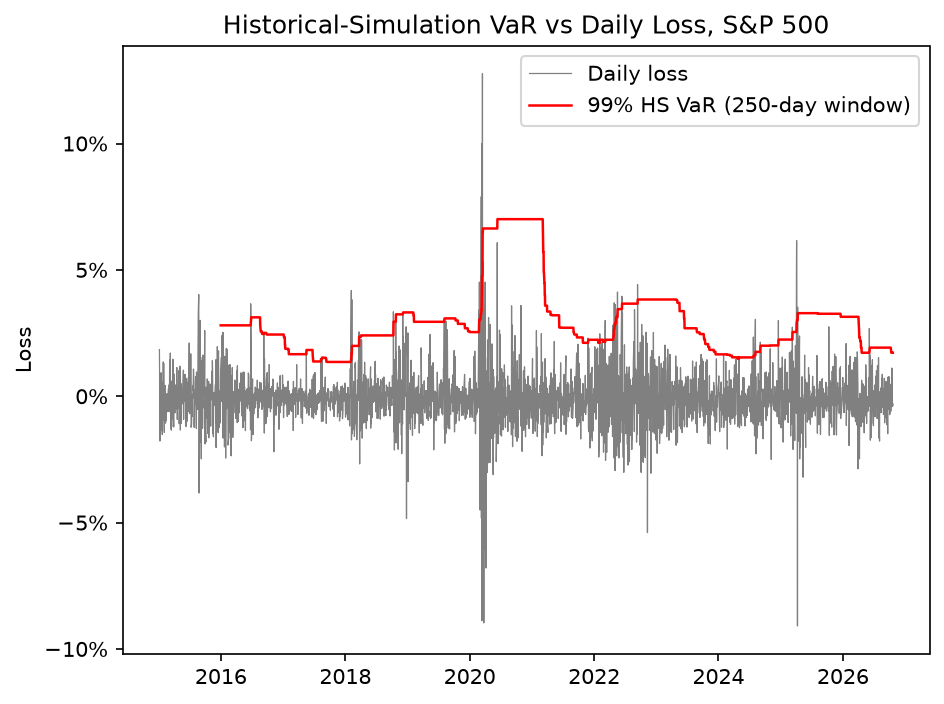
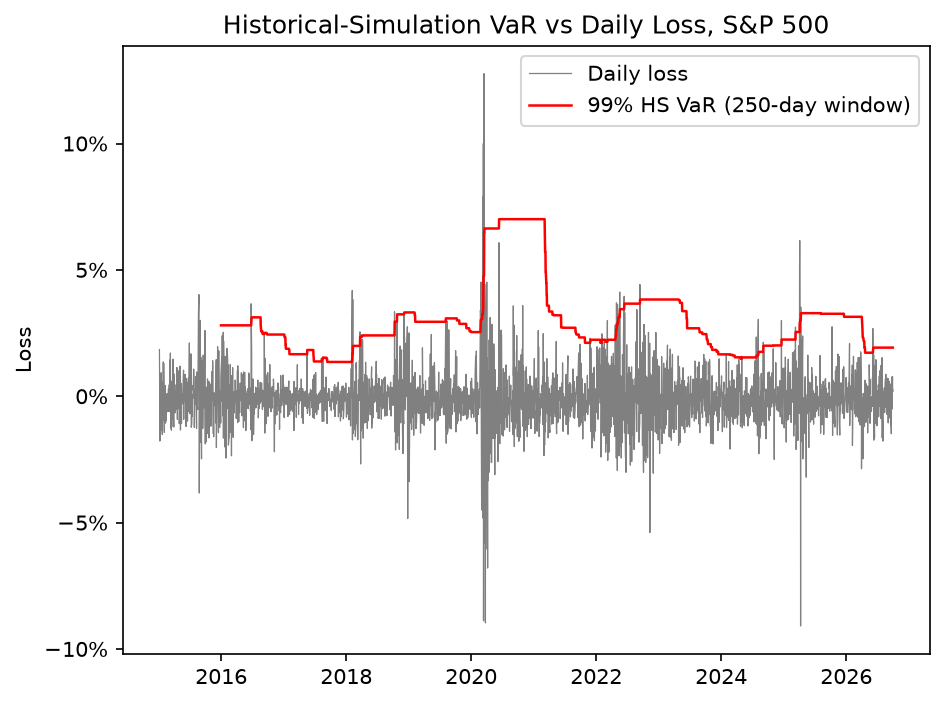
Added Christoffersen Independence and Conditional Coverage tests, together with an end date in the clean_download function to preserve results

diff --git a/src/backtests.py b/src/backtests.py
@@ -1,18 +1,18 @@
 import pandas as pd
 import numpy as np
 from scipy.stats import chi2
-
+from scipy.special import xlogy
 
 
 def kupiec_test(hit: pd.Series, p: float = 0.01) -> dict:
-    """Computes the Kupiec likelihood ratio test. Takes a boolean hit series as argument. """
+    """Computes the Kupiec likelihood ratio test. Takes a boolean hit series as argument."""
 
     n = hit.size
     x = hit.sum()
     pi_hat = x / n
 
-    l1 = (n - x) * np.log(1 - p) + x * np.log(p) if x > 0 else 0
-    l2 = (n - x) * np.log(1 - pi_hat) + x * np.log(pi_hat) if x > 0 else 0 # Handle edge cases
+    l1 = xlogy(n - x, 1 - p) + xlogy(x, p)
+    l2 = xlogy(n - x, 1 - pi_hat) + xlogy(x, pi_hat)
 
     LR = -2 * (l1 - l2)
     p_value = chi2.sf(LR, df=1)
@@ -22,3 +22,54 @@ def kupiec_test(hit: pd.Series, p: float = 0.01) -> dict:
             'rate': float(hit.mean()),
             'LR': float(LR),
             'p_value': float(p_value)}
+
+
+def christoffersen_independence(hit: pd.Series) -> dict:
+    """Computes the Christoffersen Independence test. Takes a boolean hit series as argument."""
+
+    h = hit.astype(int).to_numpy()
+    prev = h[:-1]
+    curr = h[1:]
+    
+    # Transitions
+    n00 = ((prev == 0) & (curr == 0)).sum()
+    n01 = ((prev == 0) & (curr == 1)).sum()
+    n10 = ((prev == 1) & (curr == 0)).sum()
+    n11 = ((prev == 1) & (curr == 1)).sum()
+
+    pi01 = n01 / (n00 + n01)
+    pi11 = n11 / (n10 + n11)
+    pi = (n01 + n11) / (n01 + n10 + n11 + n00)
+
+    log_L_null = xlogy(n00 + n10, 1 - pi) + xlogy(n01 + n11, pi)
+    log_L_alternative  = xlogy(n00, 1 - pi01) + xlogy(n01, pi01) + xlogy(n10, 1 - pi11) + xlogy(n11, pi11)
+
+    LR_ind = -2 * (log_L_null -  log_L_alternative)
+    p_value = chi2.sf(LR_ind, df=1)
+
+    return {'n00' : int(n00),
+            'n01' : int(n01),
+            'n10' : int(n10),
+            'n11' : int(n11),
+            'pi01' : float(pi01),
+            'pi11' : float(pi11),
+            'LR': float(LR_ind),
+            'p_value' : float(p_value)}
+
+
+def conditional_coverage(hit: pd.Series, p: float = 0.01) -> dict:
+    """Returns the results of the Christoffersen Conditional Coverage test as a dictionary. Takes a boolean hit series as argument."""
+
+    LR_unconditional = kupiec_test(hit, p)['LR']
+    LR_independence = christoffersen_independence(hit)['LR']
+
+    LR_conditional = LR_independence + LR_unconditional
+    p_value = chi2.sf(LR_conditional, df = 2)
+
+    return {'LR_unconditional' : LR_unconditional,
+            'LR_independence' : LR_independence,
+            'LR_conditional' : LR_conditional,
+            'p_value' : float(p_value)}
+
+
+

diff --git a/src/data.py b/src/data.py
@@ -11,9 +11,9 @@ warnings.filterwarnings('ignore')
 DATA_DIR = Path(__file__).resolve().parents[1] / "data"
 
 
-def clean_download(ticker: str, start: str) -> pd.DataFrame:
-    """Download daily OHLC prices for `ticker` from `start` and save them to data/<name>.csv."""
-    data = yf.download(tickers=ticker, start=start, progress=False)
+def clean_download(ticker: str, start: str, end: str) -> pd.DataFrame:
+    """Download daily OHLC prices for `ticker` from `start` until `end` and save them to data/<name>.csv."""
+    data = yf.download(tickers=ticker, start=start, end=end, progress=False)
 
     if data.empty:
         raise ValueError(f"No data returned for {ticker}. Check the ticker or your connection.")
@@ -67,8 +67,9 @@ def check_prices(prices: pd.DataFrame) -> dict:
     return info_dict
 
 
-prices = clean_download("^GSPC", "2015-01-01")
+"""prices = clean_download("^GSPC", "2015-01-01")
 loss = compute_losses(prices)
 pv = parkinson_variance(prices)
 print(check_prices(prices))
 
+"""
